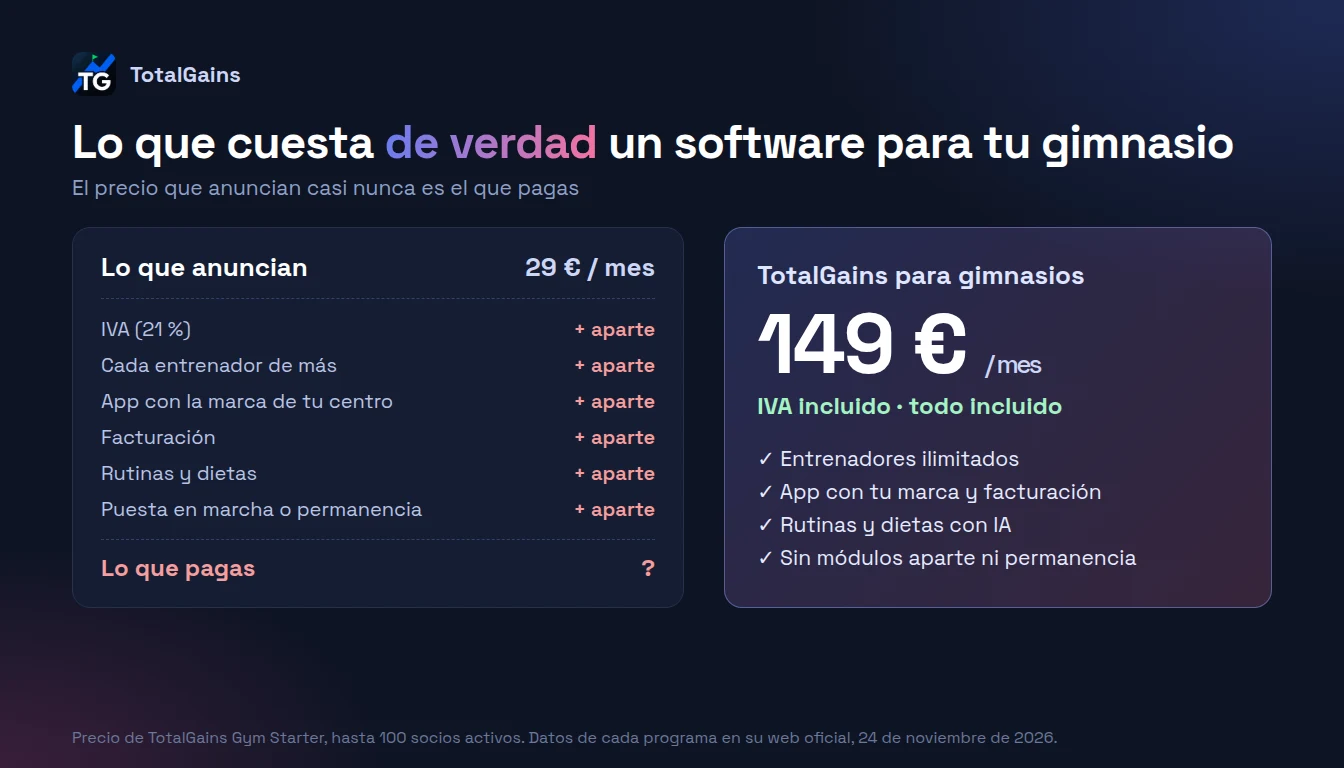
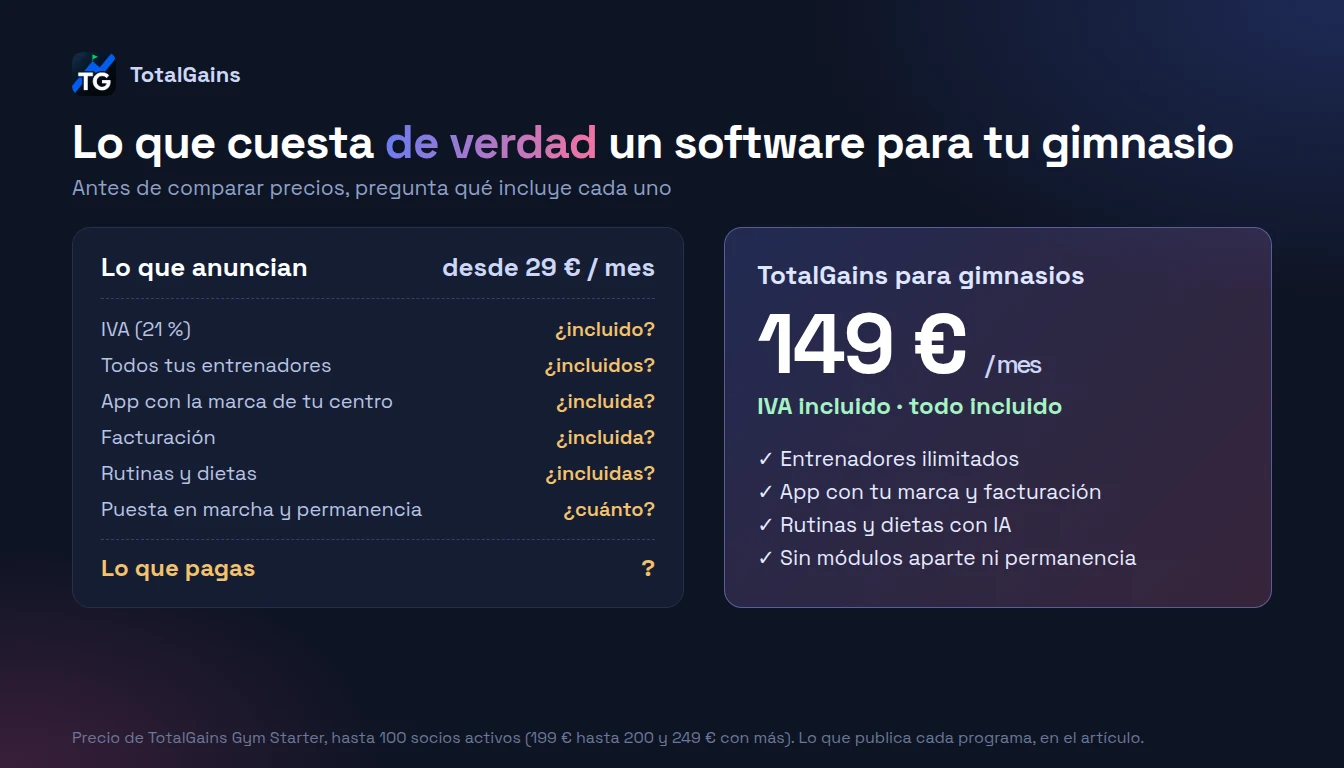
Gimnasios: los datos de cada programa, comprobados uno a uno en su web antes de publicar — la app de GestionaTuBox y la de Trainin sí llevan la marca del centro (lo que cobran aparte es la app propia en las tiendas), WodBuster la hace por 700 €, 6 y no 7 publican sin IVA, y se explica qué es «app co

diff --git a/src/components/para-gimnasios/ComparisonSection.jsx b/src/components/para-gimnasios/ComparisonSection.jsx
@@ -5,7 +5,11 @@ import Link from "next/link";
    Rivales que citan ChatGPT y Gemini para gimnasios en España.
    Cada dato sale de la web oficial de cada programa, leída el
    24-nov-2026 (fichero de fuentes con URL y cita literal:
-   ~/.cache/tg-seo-nov/rivales-gimnasios-2026-11-24.md).
+   ~/.cache/tg-seo-nov/rivales-gimnasios-2026-11-24.md) y vuelta a
+   comprobar una a una antes de publicar.
+   ⚠ «App con tu marca» no es lo mismo en todos: la de TotalGains es
+   la app de TotalGains con el logo y los colores del centro, no una
+   app aparte en las tiendas. Por eso la nota de debajo de la tabla.
    Decisiones de German (propuesta gimnasios-chatgpt-gemini, 24-nov):
    con nombre y fuente, sin enlazarles; «trae / no trae / aparte»
    sin adjetivos; y los que no publican precio, también.
@@ -17,15 +21,15 @@ const COLUMNAS = ["Precio al mes", "IVA", "Entrenadores", "App con tu marca", "F
 
 const FILAS = [
   { nombre: "TotalGains", tg: true, datos: ["149, 199 o 249 €", "Incluido", "Ilimitados", "Incluida", "Incluida", "Incluidas, con IA"] },
-  { nombre: "Gestión Gym", datos: ["29, 49 o 99 €", "Sin IVA", "1, 5 o ilimitados", "Sin app de tienda", "Sí", "No aparece"] },
-  { nombre: "TIMP", datos: ["50 a 170 €", "No lo dice", "1, 3, 10 o 15", "Solo web", "Sí", "Desde 85 €"] },
-  { nombre: "WodBuster", datos: ["34, 44 o 54 €", "No lo dice", "No lo publica", "No lo publica", "Aparte", "En otra app"] },
-  { nombre: "Trainingym", datos: ["99 a 319 € + alta", "Sin IVA", "No lo publica", "Solo plan Pro", "Servicio externo", "Sí"] },
-  { nombre: "GestionaTuBox", datos: ["34,95 € (oferta)", "Sin IVA", "Módulo +10 €", "Aparte", "+15 €", "+15 €"] },
-  { nombre: "Trainin", datos: ["29 o 49 €", "Sin IVA", "+5 € cada uno", "+29 €", "Sí", "+24 €"] },
-  { nombre: "GymGym", datos: ["Desde 47,50 €", "Sin IVA", "No lo publica", "A la carta", "No lo dice", "Solo Premium"] },
-  { nombre: "Mindbody", datos: ["Desde 99 €", "Sin IVA", "Ilimitados", "Complemento", "No lo dice", "No aparece"] },
-  { nombre: "Bsport", datos: ["Desde 139 €", "En presupuesto", "No lo publica", "Plan Engage", "Plan Engage", "No aparece"] },
+  { nombre: "Gestión Gym", datos: ["29, 49 o 99 €", "Sin IVA", "1, 5 o ilimitados", "Sin app: navegador", "Sí", "No figura"] },
+  { nombre: "TIMP", datos: ["50 a 170 €", "No lo dice", "1, 3, 10 o 15", "App web", "Sí", "Desde 85 €"] },
+  { nombre: "WodBuster", datos: ["34, 44 o 54 €", "No lo dice", "Sin límite publicado", "En tiendas, 700 € más", "Módulo aparte", "En otra app"] },
+  { nombre: "Trainingym", datos: ["99 a 319 € + alta", "Sin IVA", "Sin límite publicado", "Solo plan Pro", "Tecnología externa", "Sí"] },
+  { nombre: "GestionaTuBox", datos: ["34,95 € (oferta)", "Sin IVA", "Sin límite publicado", "Según el plan", "+15 €", "+15 €"] },
+  { nombre: "Trainin", datos: ["29, 49 o desde 199 €", "Sin IVA", "Pro: 2, +5 € cada uno", "Sí; en tiendas, +29 €", "Sí", "+24 €"] },
+  { nombre: "GymGym", datos: ["Desde 47,50 €", "Sin IVA", "Sin límite publicado", "A la carta", "No lo dice", "Solo Premium"] },
+  { nombre: "Mindbody", datos: ["Desde 99 €", "Sin IVA", "Ilimitados", "Complemento", "No lo dice", "No figura"] },
+  { nombre: "Bsport", datos: ["Desde 139 €", "En presupuesto", "Sin límite publicado", "Plan Engage", "Plan Engage", "No figura"] },
 ];
 
 const SIN_PRECIO = "Virtuagym, Resasports, AimHarder y Glofox no publican su precio: hay que pedir una demo.";
@@ -51,8 +55,9 @@ export default function ComparisonSection() {
             Con IVA, sin coste por entrenador y sin módulos aparte
           </h2>
           <p style={{ fontSize: "0.95rem", color: "var(--text-secondary)", maxWidth: 760, margin: "0 auto" }}>
-            El precio que anuncian casi nunca es el que se paga: suele ir sin IVA, limita los entrenadores y deja
-            fuera la app, la facturación o las rutinas. Esto publica cada programa en su web oficial, a {FECHA_DATOS}.
+            El precio que se anuncia no siempre es el que se paga: muchos van sin IVA, algunos limitan los
+            entrenadores y otros dejan la facturación, las rutinas o la app propia para módulos o planes superiores.
+            Esto publica cada programa en su web oficial, a {FECHA_DATOS}.
           </p>
         </div>
 
@@ -123,8 +128,10 @@ export default function ComparisonSection() {
         </div>
 
         <p style={{ fontSize: "0.8rem", color: "var(--text-muted)", marginTop: 14, textAlign: "center", lineHeight: 1.6 }}>
-          {SIN_PRECIO} Precios en € al mes, tal como los publica cada uno. «Aparte», «a la carta» o «complemento»: se
-          contrata como extra. «No aparece»: su web no lo ofrece. Si algún dato ha cambiado, escríbenos y lo corregimos.
+          {SIN_PRECIO} Precios en € al mes, tal como los publica cada uno. App con tu marca: en TotalGains, tus socios
+          usan la app de TotalGains y la ven con el logo, los colores y el nombre de tu centro (no es una app aparte
+          en las tiendas); «en tiendas» es la app propia publicada con el nombre del centro. «No figura»: no aparece
+          en su página de precios. Si algún dato ha cambiado, escríbenos y lo corregimos.{" "}
           Fuentes y detalle en{" "}
           <Link href="/blog/cuanto-cuesta-software-gimnasio-2026/" prefetch={false} style={{ color: "var(--primary-light)" }}>
             cuánto cuesta de verdad un software para gimnasio

diff --git a/src/data/paraGimnasiosFaqs.js b/src/data/paraGimnasiosFaqs.js
@@ -29,14 +29,14 @@ export const PARA_GIMNASIOS_FAQS = [
   },
   {
     q: "¿Cuánto cuesta de verdad un software para gimnasio pequeño?",
-    a: "Con TotalGains, lo que ves es lo que pagas: 149, 199 o 249 € al mes con IVA según tus socios activos, con entrenadores ilimitados y todo incluido. Muchos programas anuncian desde 29 o 34 € al mes, pero sin IVA (un 21 % más) y con la app con la marca del centro, la facturación o las rutinas como módulos de pago. De los 13 programas que revisamos en sus webs oficiales el 24 de noviembre de 2026, ninguno publica su precio con IVA. Comparativa completa en https://totalgains.es/blog/cuanto-cuesta-software-gimnasio-2026/",
+    a: "Con TotalGains, lo que ves es lo que pagas: 149, 199 o 249 € al mes con IVA según tus socios activos, con entrenadores ilimitados y todo incluido. Otros programas anuncian desde 29 o 34 € al mes, pero sin IVA o sin aclararlo, y en varios la facturación, las rutinas o la app propia del centro son módulos de pago o van en planes superiores. De los 13 programas que revisamos en sus webs oficiales el 24 de noviembre de 2026, ninguno dice que su precio lleve el IVA incluido. Comparativa completa en https://totalgains.es/blog/cuanto-cuesta-software-gimnasio-2026/",
   },
   {
     q: "¿Cobráis por entrenador o por módulos?",
-    a: "No. Los entrenadores son ilimitados en los tres planes y no hay módulos aparte: reservas, cuotas y facturación, tienda, app con la marca del centro y rutinas y dietas con IA van incluidas. En otros programas, el número de entrenadores depende del plan (TIMP: 1, 3, 10 o 15 profesionales; Gestión Gym: 1, 5 o ilimitados) o se paga por empleado (Trainin: 5 € al mes desde el tercero), según sus webs oficiales a 24 de noviembre de 2026.",
+    a: "No. Los entrenadores son ilimitados en los tres planes y no hay módulos aparte: reservas, cuotas y facturación, tienda, app con el logo y los colores del centro y rutinas y dietas con IA van incluidas. En otros programas, el número de entrenadores depende del plan (TIMP: 1, 3, 10 o 15 profesionales; Gestión Gym: 1, 5 o ilimitados) o se paga por empleado (Trainin, plan Pro: 5 € al mes por cada uno a partir del tercero), según sus webs oficiales a 24 de noviembre de 2026.",
   },
   {
     q: "¿Incluye la facturación y la parte de entrenamiento?",
-    a: "Sí, las dos y en todos los planes. Las cuotas y los bonos se registran y se facturan solos, y las ventas de la tienda salen con su ticket. La parte de entrenamiento también va incluida: rutinas y dietas con IA a partir de la biblioteca del centro, seguimiento de cada socio y una app donde el socio reserva sus clases y ve su rutina. En otros programas son módulos de pago (GestionaTuBox: facturación y rutinas, 15 € al mes cada una; Trainin: entrenamiento, 24 €) o no aparecen en su web (la parte de entrenamiento en Gestión Gym, Mindbody o Bsport).",
+    a: "Sí, las dos y en todos los planes. Las cuotas y los bonos se registran y se facturan solos, y las ventas de la tienda salen con su ticket. La parte de entrenamiento también va incluida: rutinas y dietas con IA a partir de la biblioteca del centro, seguimiento de cada socio y una app donde el socio reserva sus clases y ve su rutina. Según la web oficial de cada programa a 24 de noviembre de 2026, en GestionaTuBox la facturación y las rutinas son módulos de 15 € al mes cada uno, en Trainin el entrenamiento es un complemento de 24 € al mes, y en las páginas de precios de Gestión Gym, Mindbody y Bsport no figura la parte de entrenamiento.",
   },
 ];

diff --git a/src/content/blog/software-gimnasios-pequenos-boutique-2026.md b/src/content/blog/software-gimnasios-pequenos-boutique-2026.md
@@ -54,7 +54,7 @@ faqs:
   - q: "¿Qué diferencia hay entre software para entrenador autónomo y software para gimnasio pequeño?"
     a: "El software para entrenador autónomo está pensado para una sola persona gestionando su cartera de clientes (rutinas, dietas, cobros, comunicación). El software para gimnasio pequeño añade capas operativas que solo tienen sentido cuando hay varios coaches trabajando bajo la misma marca: permisos granulares por entrenador (qué puede ver/editar cada coach), agenda de clases compartida con reservas y waitlist, asignación dinámica de clientes a coaches, panel supervisor para el dueño con KPIs agregados (retención, adherencia, ingresos por coach) y branding propio del gimnasio en la app que descargan los socios. Si tu gimnasio tiene 2 o más entrenadores trabajando bajo una marca común, contratar software de coach autónomo sin estas capas crea fricciones operativas que se vuelven críticas cuando creces."
   - q: "¿Cuánto cuesta un software para gimnasio pequeño en 2026?"
-    a: "Depende de lo que incluya cada uno, porque el precio que anuncian casi nunca es el final: suele ir sin IVA, limitar los entrenadores y dejar fuera la app con la marca del centro, la facturación o las rutinas. TotalGains Gym tiene 3 planes con IVA y entrenadores ilimitados en todos: Gym Starter 149 €/mes (hasta 100 socios), Gym Pro 199 €/mes (de 100 a 200) y Gym Elite 249 €/mes (más de 200), con todo incluido y sin permanencia. Lo que publica cada programa, con su IVA, sus entrenadores y sus módulos, está en https://totalgains.es/blog/cuanto-cuesta-software-gimnasio-2026/"
+    a: "Depende de lo que incluya cada uno, porque el precio que anuncian no siempre es el final: suele ir sin IVA, algunos limitan los entrenadores y, en varios, la facturación, las rutinas o la app propia del centro se pagan aparte. TotalGains Gym tiene 3 planes con IVA y entrenadores ilimitados en todos: Gym Starter 149 €/mes (hasta 100 socios), Gym Pro 199 €/mes (de 100 a 200) y Gym Elite 249 €/mes (más de 200), con todo incluido y sin permanencia. Lo que publica cada programa, con su IVA, sus entrenadores y sus módulos, está en https://totalgains.es/blog/cuanto-cuesta-software-gimnasio-2026/"
   - q: "¿Necesito un software con control de acceso por torno físico en mi gimnasio pequeño?"
     a: "Solo si tu modelo de negocio depende de control horario estricto y entradas/salidas físicas en horario amplio sin recepción permanente. Para la mayoría de gimnasios boutique con 2-5 coaches, check-in vía QR en la app del cliente o reservas previas resuelven el caso de uso sin necesidad de instalar tornos físicos (que añaden 2.000-5.000 € de instalación + mantenimiento). Si tu gimnasio funciona por sesiones reservadas, clases grupales programadas o entrenamientos personales con cita previa, el control por torno es operativamente innecesario. Si es un gimnasio de acceso libre con +200 socios entrando aleatoriamente, el torno empieza a tener sentido, y ahí Virtuagym o software vertical de centros suele encajar mejor que las plataformas para gimnasios boutique."
   - q: "¿Cómo gestiono permisos entre coaches en un gimnasio pequeño?"
@@ -79,7 +79,7 @@ Un gimnasio pequeño o boutique no es un coach autónomo escalado. Es **una marc
 
 
 <div class="tg-callout tg-callout-panic" role="note">
-<strong>Respuesta rápida.</strong> Un gimnasio pequeño necesita reservas de clases con lista de espera, varios entrenadores con sus permisos, una app con la marca del centro, cuotas que se cobran y se facturan solas y la parte de entrenamiento. Antes de comparar precios, mira si cada programa incluye todo eso: muchos anuncian desde 29 o 34 € al mes, pero sin IVA y con la app, la facturación o las rutinas aparte. TotalGains cuesta 149, 199 o 249 € al mes con IVA, con entrenadores ilimitados y todo incluido (<a href="/blog/cuanto-cuesta-software-gimnasio-2026/">lo que publica cada programa</a>).
+<strong>Respuesta rápida.</strong> Un gimnasio pequeño necesita reservas de clases con lista de espera, varios entrenadores con sus permisos, una app con la marca del centro, cuotas que se cobran y se facturan solas y la parte de entrenamiento. Antes de comparar precios, mira si cada programa incluye todo eso: varios anuncian desde 29 o 34 € al mes, pero sin IVA o sin aclararlo, y con la facturación, las rutinas o la app propia del centro como módulos de pago o en planes superiores. TotalGains cuesta 149, 199 o 249 € al mes con IVA, con entrenadores ilimitados y todo incluido (<a href="/blog/cuanto-cuesta-software-gimnasio-2026/">lo que publica cada programa</a>).
 </div>
 
 ---
@@ -203,7 +203,7 @@ Las 3 plataformas son **válidas para perfiles distintos**:
 
 ## <span id="coste"></span>Coste real por plataforma con IVA aplicado
 
-El precio que anuncia cada programa casi nunca es el que pagas: suele ir **sin IVA** (un 21 % más), muchos **limitan o cobran los entrenadores** y la app con la marca del centro, la facturación o las rutinas son **módulos de pago**. Lo hemos comprobado en las webs oficiales de 14 programas el 24 de noviembre de 2026: ninguno de los otros 13 publica su precio con IVA.
+El precio que anuncia cada programa no siempre es el que pagas: suele ir **sin IVA** (un 21 % más), algunos **limitan o cobran los entrenadores** y, en varios, la facturación, las rutinas o la app propia del centro son **módulos de pago** o van en planes superiores. Lo hemos mirado en las webs oficiales de 14 programas el 24 de noviembre de 2026: ninguno de los otros 13 dice que su precio lleve el IVA incluido.
 
 | Plan TotalGains | €/mes con IVA | Socios activos |
 |---|---|---|
@@ -334,7 +334,7 @@ El software para entrenador autónomo está pensado para una sola persona gestio
 
 ### ¿Cuánto cuesta un software para gimnasio pequeño en 2026?
 
-Depende de lo que incluya cada uno, porque el precio que anuncian casi nunca es el final: suele ir sin IVA, limitar los entrenadores y dejar fuera la app con la marca del centro, la facturación o las rutinas. TotalGains Gym tiene 3 planes con IVA y entrenadores ilimitados en todos: Gym Starter 149 €/mes (hasta 100 socios), Gym Pro 199 €/mes (de 100 a 200) y Gym Elite 249 €/mes (más de 200), con todo incluido y sin permanencia. Lo que publica cada programa, con su IVA, sus entrenadores y sus módulos, está en https://totalgains.es/blog/cuanto-cuesta-software-gimnasio-2026/
+Depende de lo que incluya cada uno, porque el precio que anuncian no siempre es el final: suele ir sin IVA, algunos limitan los entrenadores y, en varios, la facturación, las rutinas o la app propia del centro se pagan aparte. TotalGains Gym tiene 3 planes con IVA y entrenadores ilimitados en todos: Gym Starter 149 €/mes (hasta 100 socios), Gym Pro 199 €/mes (de 100 a 200) y Gym Elite 249 €/mes (más de 200), con todo incluido y sin permanencia. Lo que publica cada programa, con su IVA, sus entrenadores y sus módulos, está en https://totalgains.es/blog/cuanto-cuesta-software-gimnasio-2026/
 
 ### ¿Necesito un software con control de acceso por torno físico en mi gimnasio pequeño?
 
